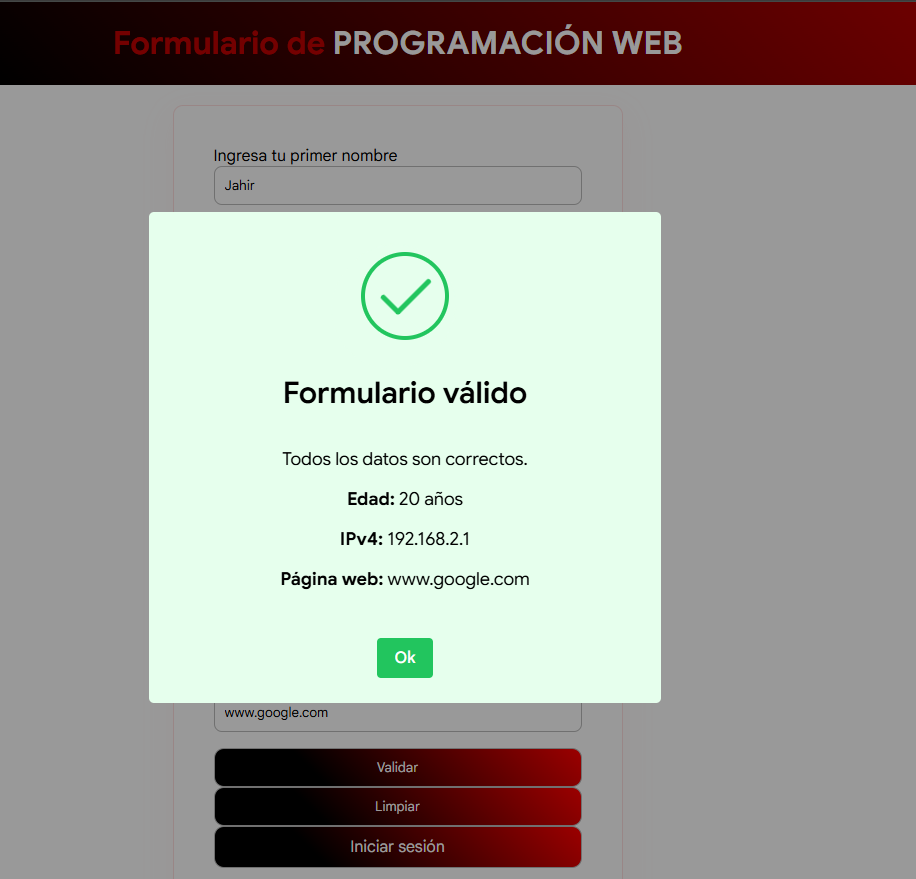
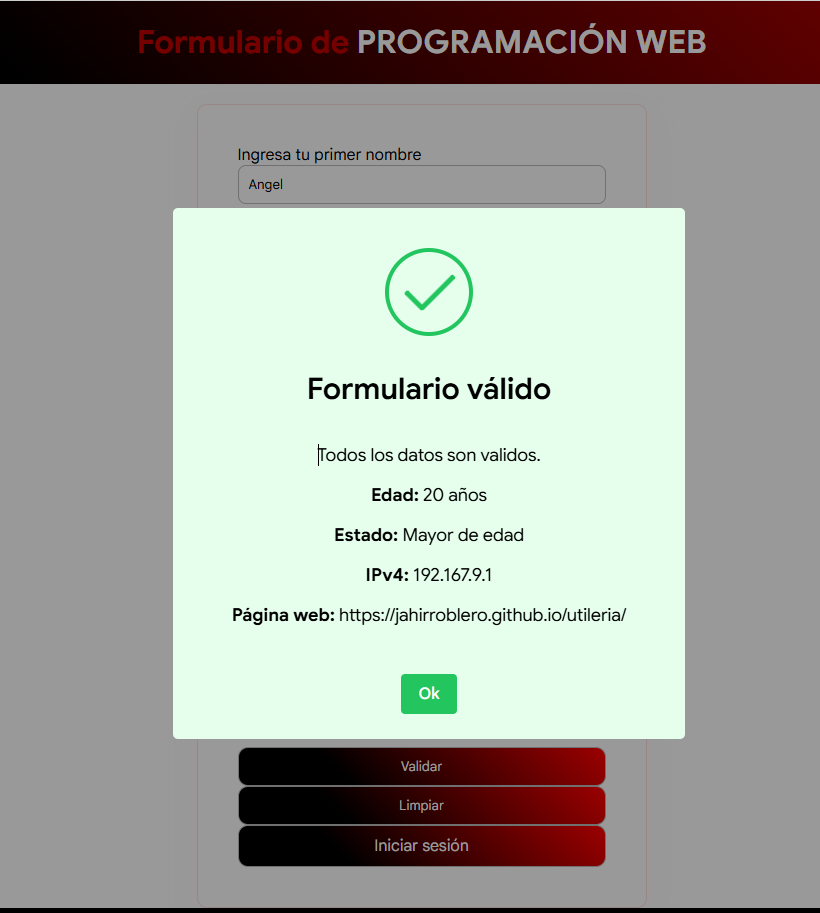
Cambie una captura de mala calidad a una de mejor calidad

diff --git a/js/codigo.js b/js/codigo.js
@@ -230,7 +230,7 @@ async function validar(event) {
     icon: "success",
     title: "Formulario válido",
     html: `
-    <p>Todos los datos son correctos.</p>
+    <p>Todos los datos son válidos.</p>
     <p><b>Edad:</b> ${edad} años</p>
     <p><b>Estado:</b> ${estadoEdad}</p>
     <p><b>IPv4:</b> ${ipv4}</p>